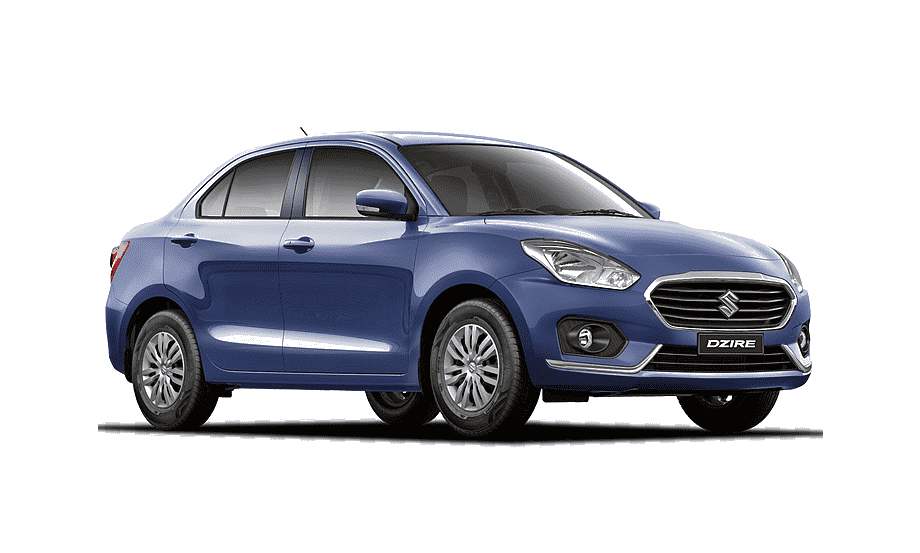
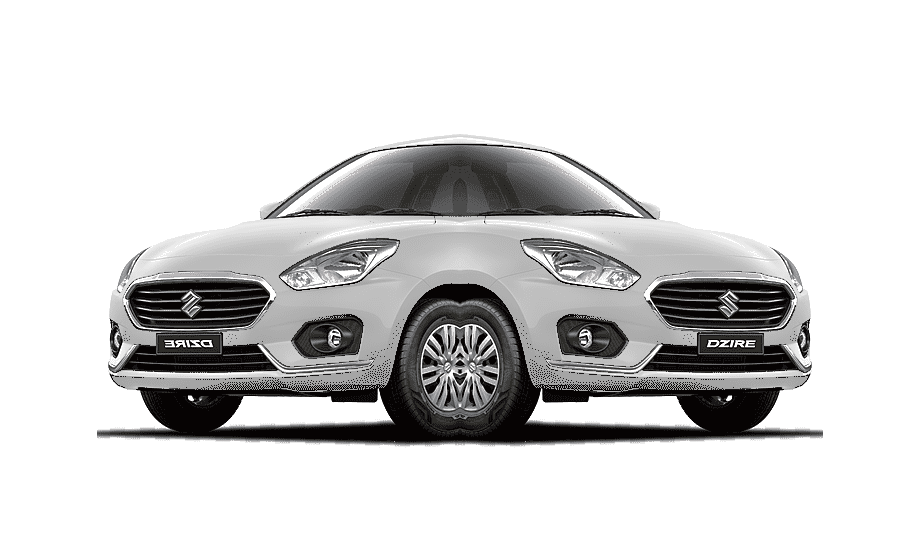
Make fleet Dzire white and left-facing to match the other cars
Recoloured the blue Dzire body white and mirrored it so all four fleet cars are white and face the same way. Cache-busted fleet images to v=4.

Changed region(s): [[0.0913, 0.2152, 0.8826, 0.83]]

diff --git a/index.html b/index.html
@@ -1111,7 +1111,7 @@
         <div class="car-item-card" data-category="sedan">
           <div class="car-badge">Bestseller</div>
           <div class="car-visual-box">
-            <img src="images/fleet-dzire.png?v=3" alt="Maruti Suzuki Dzire sedan on a white studio background" class="car-photo-img" loading="lazy" />
+            <img src="images/fleet-dzire.png?v=4" alt="Maruti Suzuki Dzire sedan on a white studio background" class="car-photo-img" loading="lazy" />
           </div>
           <div class="car-body-content">
             <h3 class="car-real-name">Maruti Suzuki Dzire / Toyota Etios</h3>
@@ -1138,7 +1138,7 @@
         <div class="car-item-card" data-category="suv">
           <div class="car-badge">Family Favorite</div>
           <div class="car-visual-box">
-            <img src="images/fleet-ertiga.png?v=3" alt="Maruti Suzuki Ertiga MPV on a white studio background" class="car-photo-img" loading="lazy" />
+            <img src="images/fleet-ertiga.png?v=4" alt="Maruti Suzuki Ertiga MPV on a white studio background" class="car-photo-img" loading="lazy" />
           </div>
           <div class="car-body-content">
             <h3 class="car-real-name">Maruti Ertiga / Kia Carens</h3>
@@ -1165,7 +1165,7 @@
         <div class="car-item-card" data-category="luxury">
           <div class="car-badge vip-badge">Executive Class</div>
           <div class="car-visual-box">
-            <img src="images/fleet-innova.png?v=3" alt="Toyota Innova Crysta MPV on a white studio background" class="car-photo-img" loading="lazy" />
+            <img src="images/fleet-innova.png?v=4" alt="Toyota Innova Crysta MPV on a white studio background" class="car-photo-img" loading="lazy" />
           </div>
           <div class="car-body-content">
             <h3 class="car-real-name">Toyota Innova Crysta / Hycross</h3>
@@ -1192,7 +1192,7 @@
         <div class="car-item-card" data-category="tempo">
           <div class="car-badge">Group Tour</div>
           <div class="car-visual-box">
-            <img src="images/fleet-tempo.png?v=3" alt="Force Tempo Traveller group van on a white studio background" class="car-photo-img" loading="lazy" />
+            <img src="images/fleet-tempo.png?v=4" alt="Force Tempo Traveller group van on a white studio background" class="car-photo-img" loading="lazy" />
           </div>
           <div class="car-body-content">
             <h3 class="car-real-name">Force Tempo Traveller (17/20/25 Seater)</h3>
